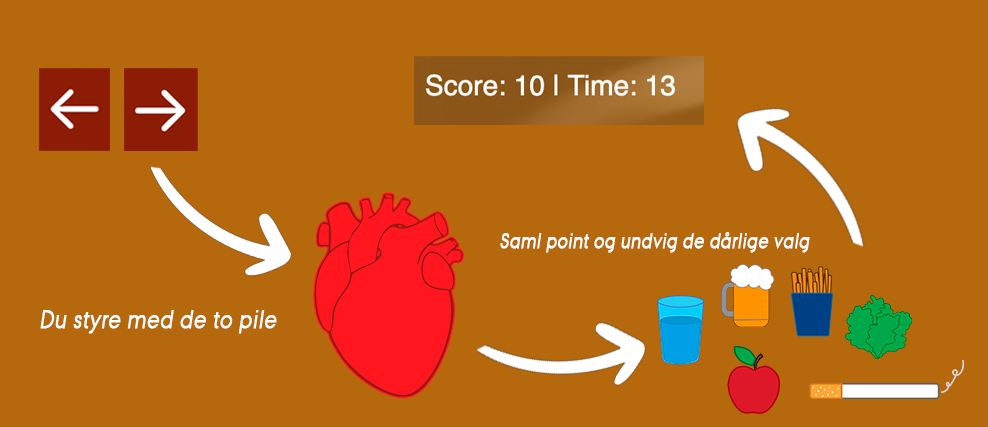
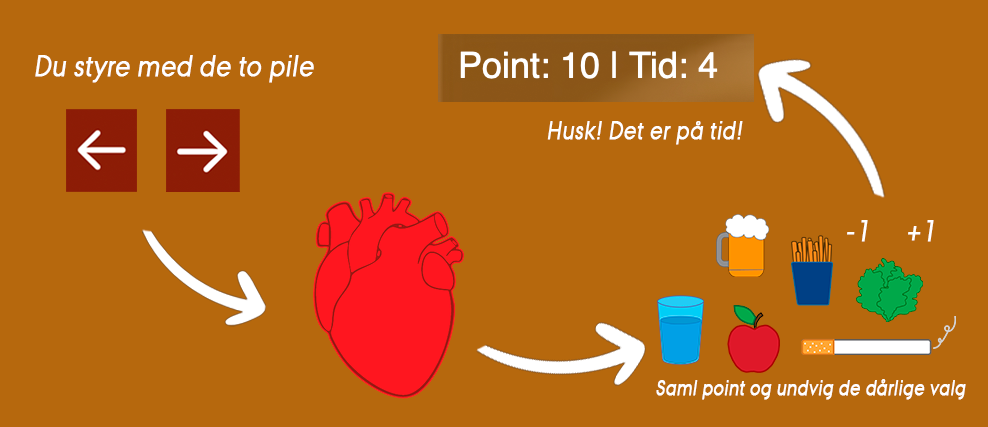
Rettelse af infografik
+ opdatering af spil css

diff --git a/styles.css b/styles.css
@@ -122,28 +122,49 @@ main {
   }
 
  /* intro til spil styles */
+  
+  #baggrund {
+    position: fixed;
+    top: 0;
+    left: 0;
+    width: 100vw;
+    height: 100vh;
+    z-index: -2;
+    overflow: hidden;
+  }
+  
+  #baggrund img {
+    width: 100%;
+    height: 100%;
+    object-fit: cover;
+    opacity: 0.5;
+  }
 
- .centerbox {
+  .centerbox {
     position: fixed;
     top: 50%;
     left: 50%;
     transform: translate(-50%, -50%);
-    z-index: -1;
+    z-index: 1;
+    display: flex;
+    flex-direction: column;
+    align-items: center;
   }
   
-  .centered-image {
-    height: 100vh;
-    object-fit: cover;
+  #infografik {
+    max-height: 80vh;
+    object-fit: contain;
   }
-
-  .startgameknap {
+  
+  .startspilknap {
+    margin-top: 20px;
     width: 200px;
-    margin-top: 400px;
+    padding: 10px;
+    font-size: 1.2rem;
+    cursor: pointer;  
+    font-size: 2rem;  
+    background-color: #8d1d06;
+    border: none;
+    color: white;
   }
-
-  #baggrund{
-    width: 100%;
-    height: 100%;
-    opacity: 0.2;
-   }
 

diff --git a/introTilSpil.html b/introTilSpil.html
@@ -9,13 +9,15 @@
 </head>
 <body>
 
-    <img id="baggrund" src="img/ur.jpg" alt="baggrundsbillede af ur">
- 
-    <div class="centerbox">
-    <img id="infografik" src="img/infografik.png" alt="info billede">
+    <div id="baggrund">
+        <img src="img/ur.jpg" alt="baggrundsbillede af ur">
     </div>
 
-    <button class="startgameknap">Start Game</button>
+    <div class="centerbox">
+    <img id="infografik" src="img/infografik.png" alt="info billede">
+    <button class="startspilknap" onclick="location.href = 'spil1.html'">Start Game</button>
+    </div>
+
 
 
 

diff --git a/spil.css b/spil.css
@@ -22,8 +22,8 @@ body, html {
   
   .player, .block {
     position: absolute;
-    width: 65px;
-    height: 65px;
+    width: 70px;
+    height: 70px;
     background-image: url('heart.png'); /* Replace with the actual heart PNG file path */
     background-size: contain;
     background-repeat: no-repeat;
@@ -31,8 +31,8 @@ body, html {
   
   #player {
     position: absolute;
-    width: 70px;
-    height: 70px;
+    width: 80px;
+    height: 80px;
     bottom: 10px;
     left: 50%;
     transform: translateX(-50%);

diff --git a/spil.js b/spil.js
@@ -13,7 +13,7 @@ let right = false; // den højre pil
 let over = false;
 
 function updateScoreboard() {
-  scoreBoard.textContent = `Score: ${score} | Time: ${time}`;
+  scoreBoard.textContent = `Point: ${score} | Tid: ${time}`;
 }
 
 // -------------------- player kontrol--------------------
